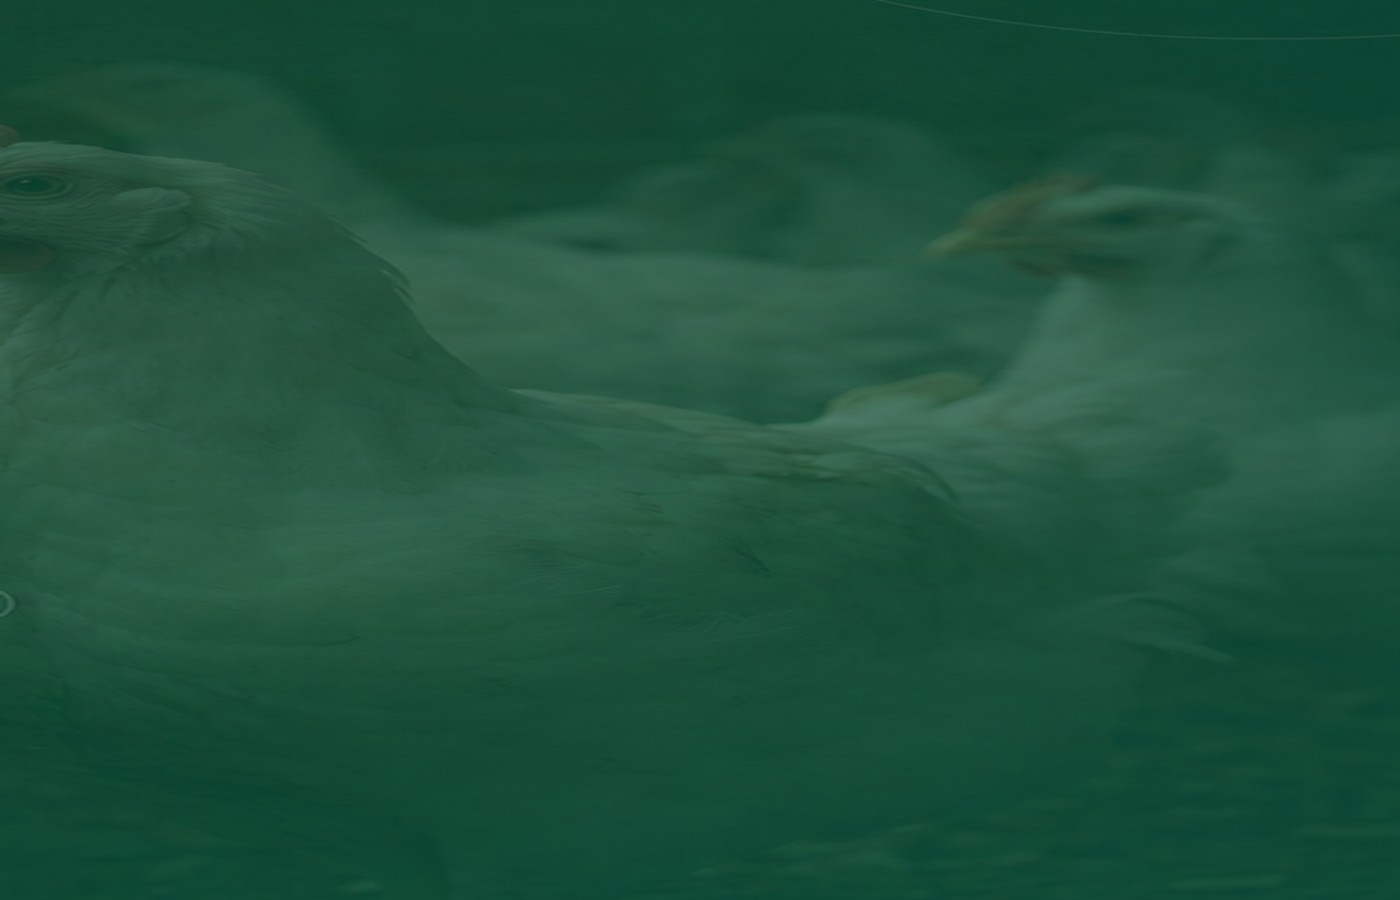
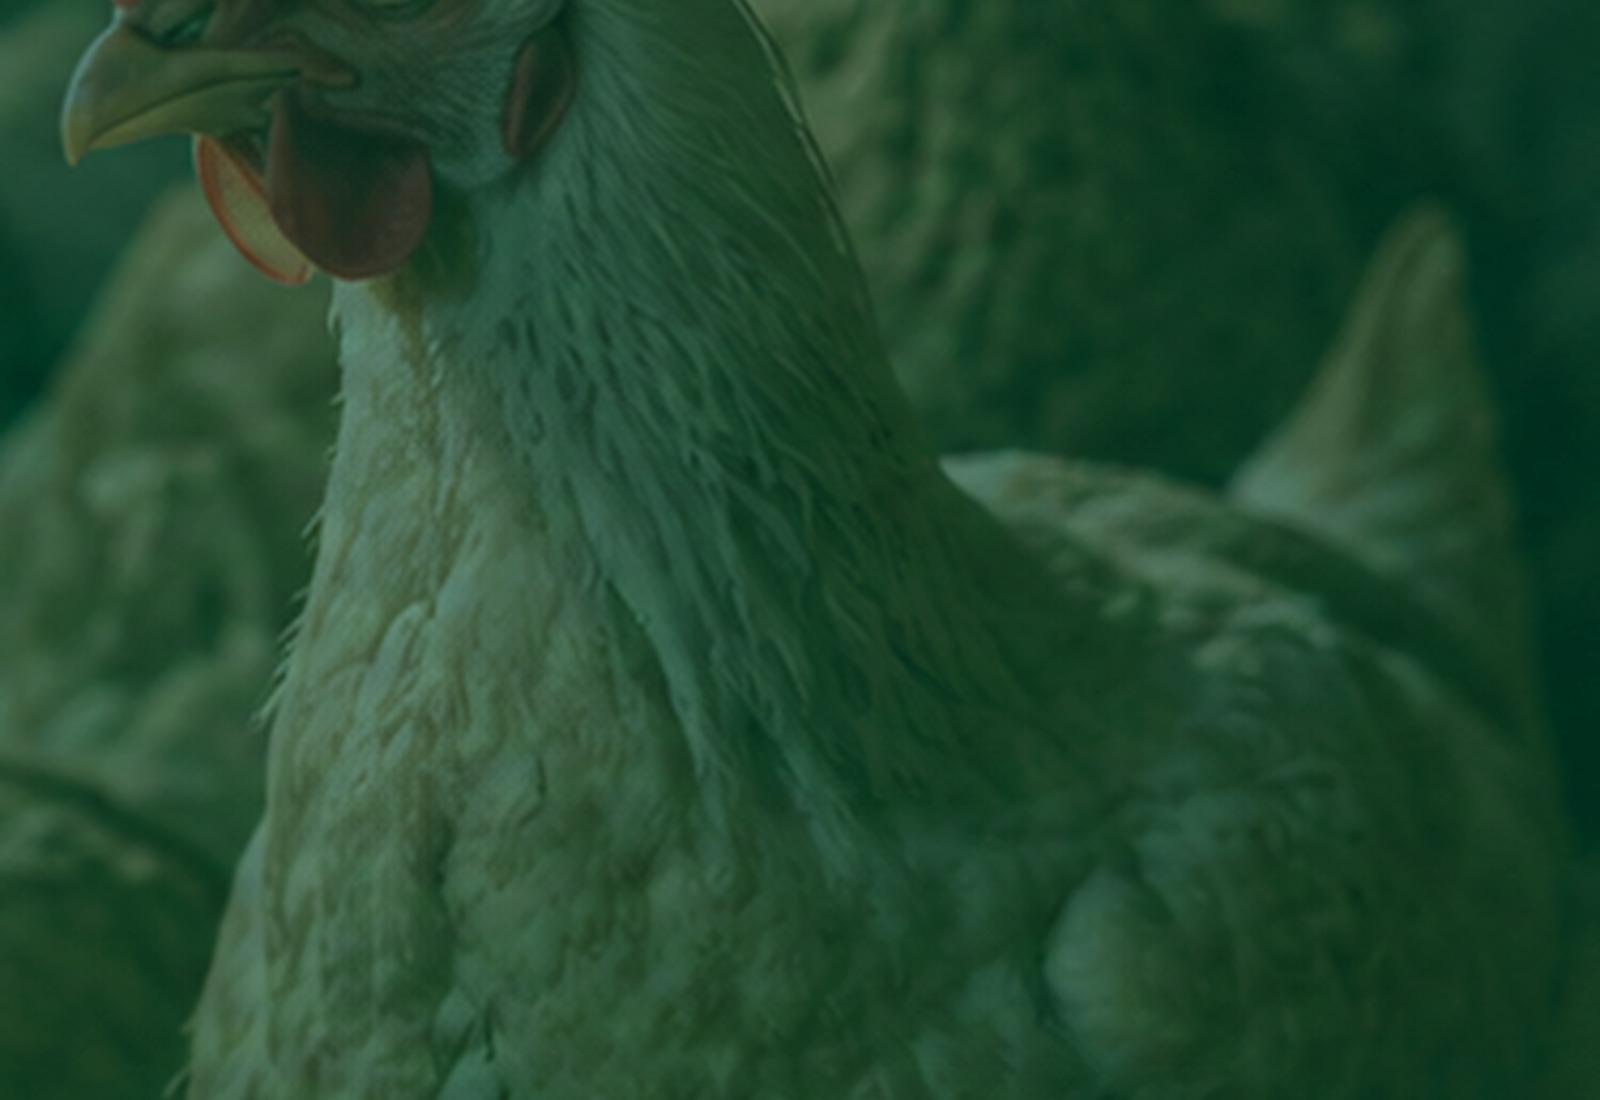
Improve responsive poultry login background

diff --git a/frontend/src/app/login/page.tsx b/frontend/src/app/login/page.tsx
@@ -401,19 +401,11 @@ export default function LoginPage() {
           z-index: 0;
           pointer-events: none;
           background-image: url("/assets/login-chickens.jpg");
-          background-size: cover;
-          background-position: 42% center;
           background-repeat: no-repeat;
-          opacity: 0.78;
-          filter: contrast(1.22) brightness(1.12) saturate(0.72);
-          transform: scale(1.015);
-          mask-image: linear-gradient(
-            90deg,
-            rgba(0, 0, 0, 0.38) 0%,
-            rgba(0, 0, 0, 0.58) 28%,
-            #000 54%,
-            #000 100%
-          );
+          background-size: auto 94%;
+          background-position: 90% 54%;
+          opacity: 0.88;
+          filter: contrast(1.18) brightness(1.14) saturate(0.82);
         }
 
         .brand-overlay {
@@ -424,19 +416,15 @@ export default function LoginPage() {
           background:
             linear-gradient(
               90deg,
-              rgba(5, 38, 30, 0.56) 0%,
-              rgba(5, 38, 30, 0.40) 32%,
-              rgba(8, 66, 50, 0.16) 58%,
-              rgba(8, 77, 56, 0.08) 100%
+              rgba(5, 37, 29, 0.86) 0%,
+              rgba(5, 37, 29, 0.66) 32%,
+              rgba(7, 62, 47, 0.26) 58%,
+              rgba(8, 82, 59, 0.08) 82%,
+              rgba(8, 82, 59, 0.03) 100%
             ),
-            radial-gradient(
-              circle at 18% 52%,
-              rgba(3, 29, 23, 0.25),
-              transparent 42%
-            ),
-            linear-gradient(rgba(255, 255, 255, 0.02) 1px, transparent 1px),
-            linear-gradient(90deg, rgba(255, 255, 255, 0.02) 1px, transparent 1px);
-          background-size: 100% 100%, 100% 100%, 52px 52px, 52px 52px;
+            linear-gradient(rgba(255, 255, 255, 0.018) 1px, transparent 1px),
+            linear-gradient(90deg, rgba(255, 255, 255, 0.018) 1px, transparent 1px);
+          background-size: 100% 100%, 52px 52px, 52px 52px;
         }
 
         .brand-orbit {
@@ -856,6 +844,117 @@ export default function LoginPage() {
         @keyframes spin {
           to {
             transform: rotate(360deg);
+          }
+        }
+
+        @media (max-width: 1280px) and (min-width: 901px) {
+          .login-page {
+            grid-template-columns: minmax(0, 1.02fr) minmax(410px, 0.98fr);
+          }
+
+          .brand-content {
+            padding: 38px 42px;
+            gap: 28px;
+          }
+
+          .brand-message {
+            max-width: 560px;
+            padding: 22px 0 20px;
+          }
+
+          .brand-message h1 {
+            font-size: clamp(42px, 5vw, 60px);
+          }
+
+          .brand-message p {
+            max-width: 500px;
+            font-size: 14px;
+          }
+
+          .brand-chicken-image {
+            background-size: auto 86%;
+            background-position: 116% 52%;
+            opacity: 0.92;
+          }
+
+          .brand-overlay {
+            background:
+              linear-gradient(
+                90deg,
+                rgba(5, 37, 29, 0.9) 0%,
+                rgba(5, 37, 29, 0.7) 38%,
+                rgba(7, 62, 47, 0.2) 68%,
+                rgba(8, 82, 59, 0.04) 100%
+              ),
+              linear-gradient(rgba(255, 255, 255, 0.016) 1px, transparent 1px),
+              linear-gradient(90deg, rgba(255, 255, 255, 0.016) 1px, transparent 1px);
+            background-size: 100% 100%, 46px 46px, 46px 46px;
+          }
+
+          .golden-logo-shell {
+            width: 76px;
+            height: 76px;
+          }
+
+          .golden-logo {
+            width: 72px;
+            height: 72px;
+          }
+
+          .brand-name {
+            font-size: 28px;
+          }
+
+          .brand-capabilities {
+            margin-top: 20px;
+          }
+
+          .brand-capabilities span {
+            min-height: 30px;
+            padding: 0 10px;
+            font-size: 10px;
+          }
+
+          .login-form-panel {
+            padding: 28px;
+          }
+
+          .login-card {
+            width: min(100%, 430px);
+          }
+        }
+
+        @media (max-width: 1050px) and (min-width: 901px) {
+          .login-page {
+            grid-template-columns: minmax(0, 0.92fr) minmax(430px, 1.08fr);
+          }
+
+          .brand-content {
+            padding: 32px 34px;
+          }
+
+          .brand-message h1 {
+            font-size: 44px;
+          }
+
+          .brand-chicken-image {
+            background-size: auto 76%;
+            background-position: 135% 54%;
+            opacity: 0.96;
+          }
+
+          .brand-overlay {
+            background:
+              linear-gradient(
+                90deg,
+                rgba(5, 37, 29, 0.92) 0%,
+                rgba(5, 37, 29, 0.73) 42%,
+                rgba(7, 62, 47, 0.16) 76%,
+                rgba(8, 82, 59, 0.02) 100%
+              ),
+              linear-gradient(rgba(255, 255, 255, 0.014) 1px, transparent 1px),
+              linear-gradient(90deg, rgba(255, 255, 255, 0.014) 1px, transparent 1px);
+            background-size: 100% 100%, 42px 42px, 42px 42px;
           }
         }
 
